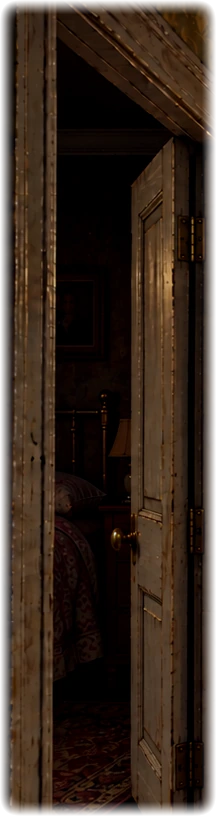
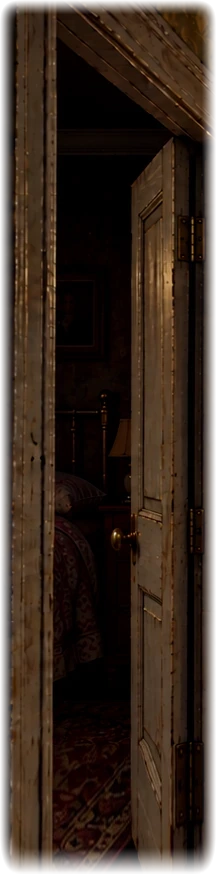
Tuerflicken im Flur bis zum unteren Bildrand verlaengert

diff --git a/quest-ostern.html b/quest-ostern.html
@@ -398,8 +398,10 @@
     { von: 'flur',   nach: 'kueche',    art: 'rechts', label: 'zurück in die Küche' },
     // Die Luke in der Decke. Der Hotspot liegt auf der Leiter, nicht auf dem
     // Schloss — sonst würde ein Klick die Code-Eingabe wieder öffnen.
+    // Beide Zustände nötig: ohne luke_geknackt wird die Leiter gar nicht gezeichnet,
+    // dann darf auch kein Pfeil ins Nichts führen.
     { von: 'flur', nach: 'dachboden', art: 'rein', pfeil: 'hoch', x: 700, y: 230, w: 260, h: 260,
-      wennOffen: 'luke_offen', label: 'die Leiter hinauf' },
+      wennOffen: ['luke_geknackt', 'luke_offen'], label: 'die Leiter hinauf' },
     // Die drei Zimmer. Durch die hintere Tür kommt man nicht, solange die Leiter
     // davorsteht — dann muss man die Luke erst wieder zuklappen.
     { von: 'flur', nach: 'kammer', art: 'rein', pfeil: 'links', x: 262, y: 120, w: 110, h: 600,
@@ -630,14 +632,14 @@
     // sie nur auf und zu und geben den Blick in die Zimmer frei.
     { id: 'fl_tuer_links', ansicht: 'flur', x: 258, y: 40, w: 200, h: 760, typ: 'ausschnitt',
       zustand: 'fl_links_offen', klang: 'holz', label: 'Tür zur Kammer',
-      patch: 'bilder/flur-tuer-links.webp', patchX: 253, patchY: 13, patchW: 216, patchH: 816 },
+      patch: 'bilder/flur-tuer-links.webp', patchX: 253, patchY: 13, patchW: 216, patchH: 874 },
     // Nur das Türblatt bis oberhalb der Schwelle: darunter sitzt der Durchgang.
     { id: 'fl_tuer_ende', ansicht: 'flur', x: 740, y: 265, w: 160, h: 330, typ: 'ausschnitt',
       zustand: 'fl_ende_offen', klang: 'holz', label: 'Tür zu Anfisas Zimmer',
       patch: 'bilder/flur-tuer-ende.webp', patchX: 723, patchY: 248, patchW: 249, patchH: 471 },
     { id: 'fl_tuer_rechts', ansicht: 'flur', x: 1310, y: 40, w: 250, h: 800, typ: 'ausschnitt',
       zustand: 'fl_rechts_offen', klang: 'holz', label: 'Tür zum Bad',
-      patch: 'bilder/flur-tuer-rechts.webp', patchX: 1293, patchY: 13, patchW: 296, patchH: 866 },
+      patch: 'bilder/flur-tuer-rechts.webp', patchX: 1293, patchY: 13, patchW: 296, patchH: 874 },
     // Danach klappt die Luke auf und zu, ohne dass der Code nochmal gebraucht wird.
     // Zwei Fassungen der Leiter: eine mit geschlossener, eine mit offener Tür am
     // Ende des Gangs — sonst überdeckt die Leiter die offene Tür wieder.
@@ -788,6 +790,10 @@
     if (!s) return false;
     zustand.gefunden = Array.isArray(s.gefunden) ? s.gefunden : [];
     zustand.offen = s.offen || {};
+    // Altstand: luke_offen gesetzt, luke_geknackt noch nicht. Dann fehlt die
+    // Leiter im Bild, der Dachbodenpfeil steht trotzdem da und der Durchgang
+    // in Anfisas Zimmer bleibt gesperrt. Die beiden gehören zusammen.
+    if (zustand.offen.luke_offen) zustand.offen.luke_geknackt = true;
     zustand.hinweise = typeof s.hinweise === 'number' ? s.hinweise : HINWEISE_GESAMT;
     zustand.zeit = s.zeit || 0;
     // Altstand: dort stand noch eine Raum-ID. Auf die Startansicht des Raums umbiegen.
@@ -1234,7 +1240,9 @@
   function durchgangForm(w) {
     const mx = w.x + w.w / 2, my = w.y + w.h / 2;
     const winkel = PFEIL_WINKEL[w.pfeil] || 0;
-    return `<g class="durchgang" data-weg="${w.nach}" data-wenn="${w.wennOffen || ''}" data-nicht="${w.wennZu || ''}" transform="translate(${mx},${my})">
+    // wennOffen und wennZu dürfen Listen sein — alle müssen erfüllt sein
+    const liste = (v) => (Array.isArray(v) ? v : [v]).filter(Boolean).join(',');
+    return `<g class="durchgang" data-weg="${w.nach}" data-wenn="${liste(w.wennOffen)}" data-nicht="${liste(w.wennZu)}" transform="translate(${mx},${my})">
       <rect x="${-w.w / 2}" y="${-w.h / 2}" width="${w.w}" height="${w.h}" fill="transparent"><title>${w.label || 'weiter'}</title></rect>
       <g class="marke">
         <circle r="30" fill="rgba(10,18,12,0.6)" stroke="#f4d484" stroke-width="2"/>
